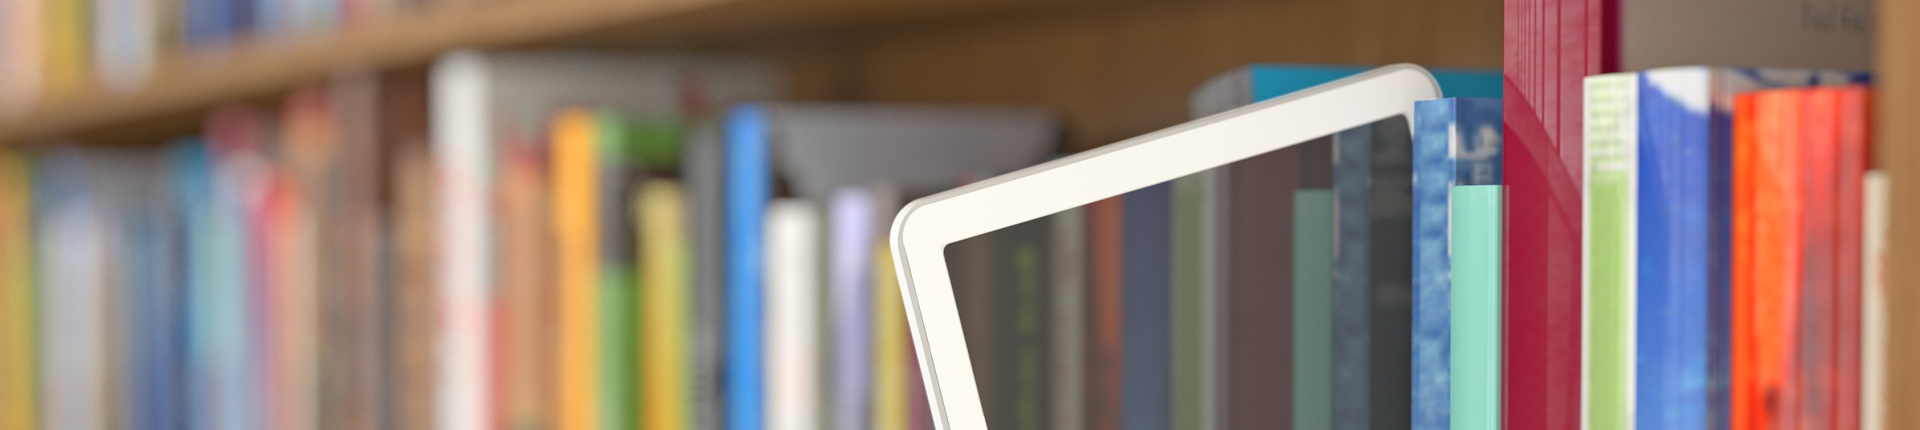
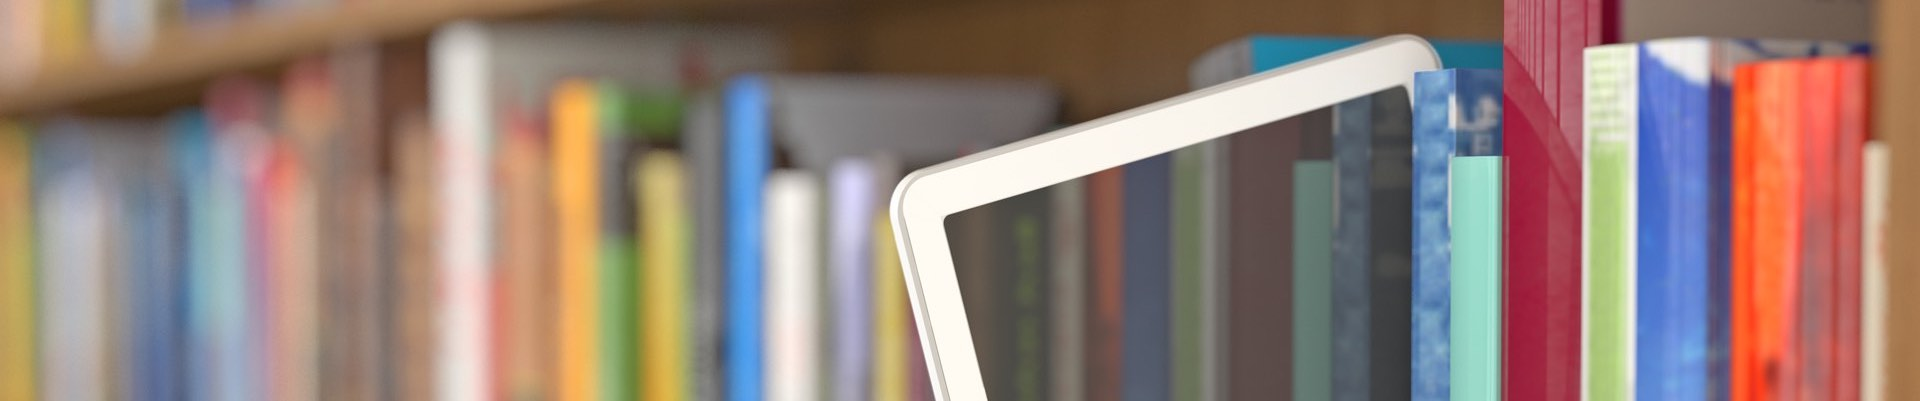
case 154511: "images" search tab is not legible
- cropped hero-unit image
- simplified hero-unit padding
- removed .hero-unit-search-active

diff --git a/src/main/javascript/search.js b/src/main/javascript/search.js
@@ -66,7 +66,6 @@ if (document.querySelector(".search-form"))  {
 
                 v = {
                     close: function() {
-                        form.parentNode.classList.remove("hero-unit-search-active");
                         form.classList.remove("search-form-active");
                         document.documentElement.scrollIntoView();
                         view.fire("close");
@@ -75,7 +74,6 @@ if (document.querySelector(".search-form"))  {
                         view.fire("inputChange", queryInput.value);
                     },
                     open: function() {
-                        form.parentNode.classList.add("hero-unit-search-active");
                         form.classList.add("search-form-active");
                         view.fire("open");
                     },

diff --git a/src/main/css/search-form.css b/src/main/css/search-form.css
@@ -7,20 +7,12 @@
     display: flex;
     justify-content: center;
     width: 100%;
-    padding-top: 74px;
-    
+    padding-top: 65px;
 }
 
-.hero-unit-front-page{
-	padding: 72px 0 65px 0;
-}
-
-.hero-unit-front-page.hero-unit-search-active {
-    padding: 72px 0 100px 0;
-}
-
-.hero-unit-search-active {
-    padding: 71px 0 0 0;
+.hero-unit-front-page {
+    padding-top: 100px;
+    padding-bottom: 65px;
 }
 
 .search-form {
